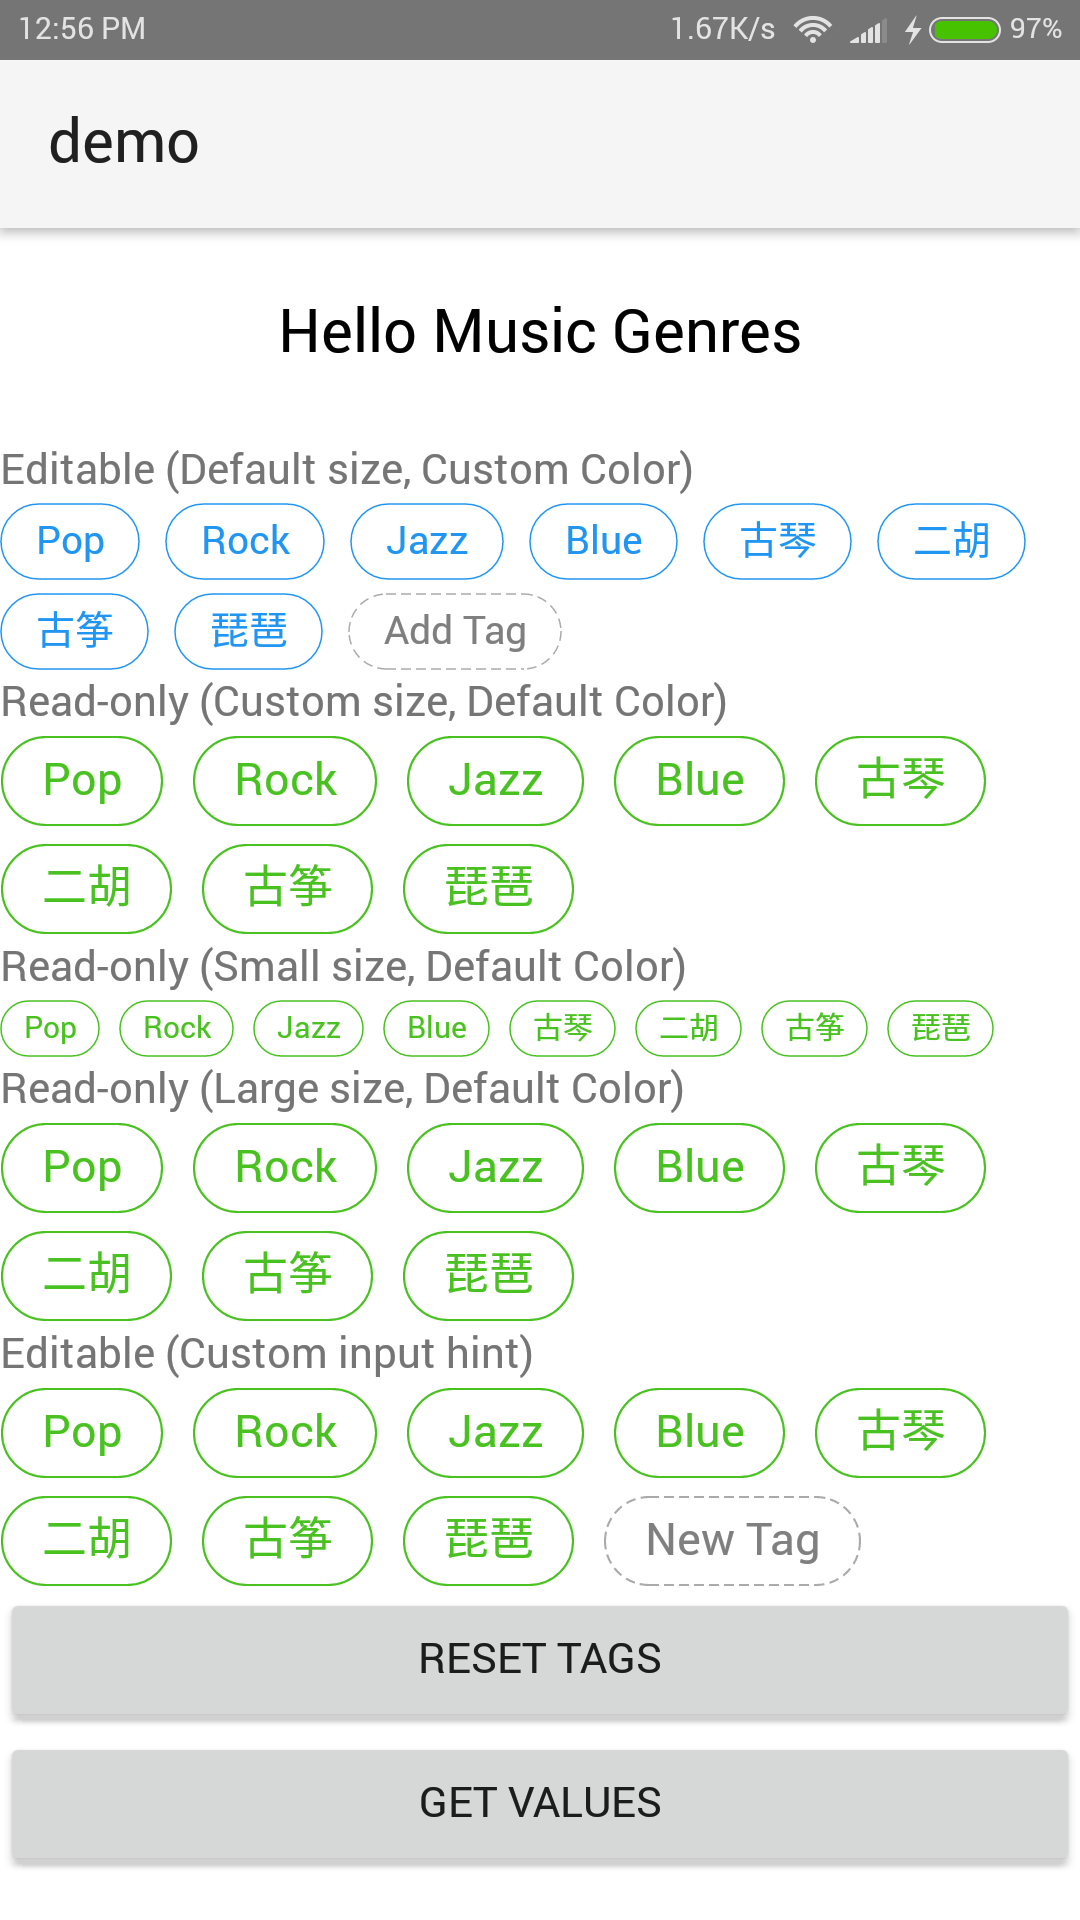
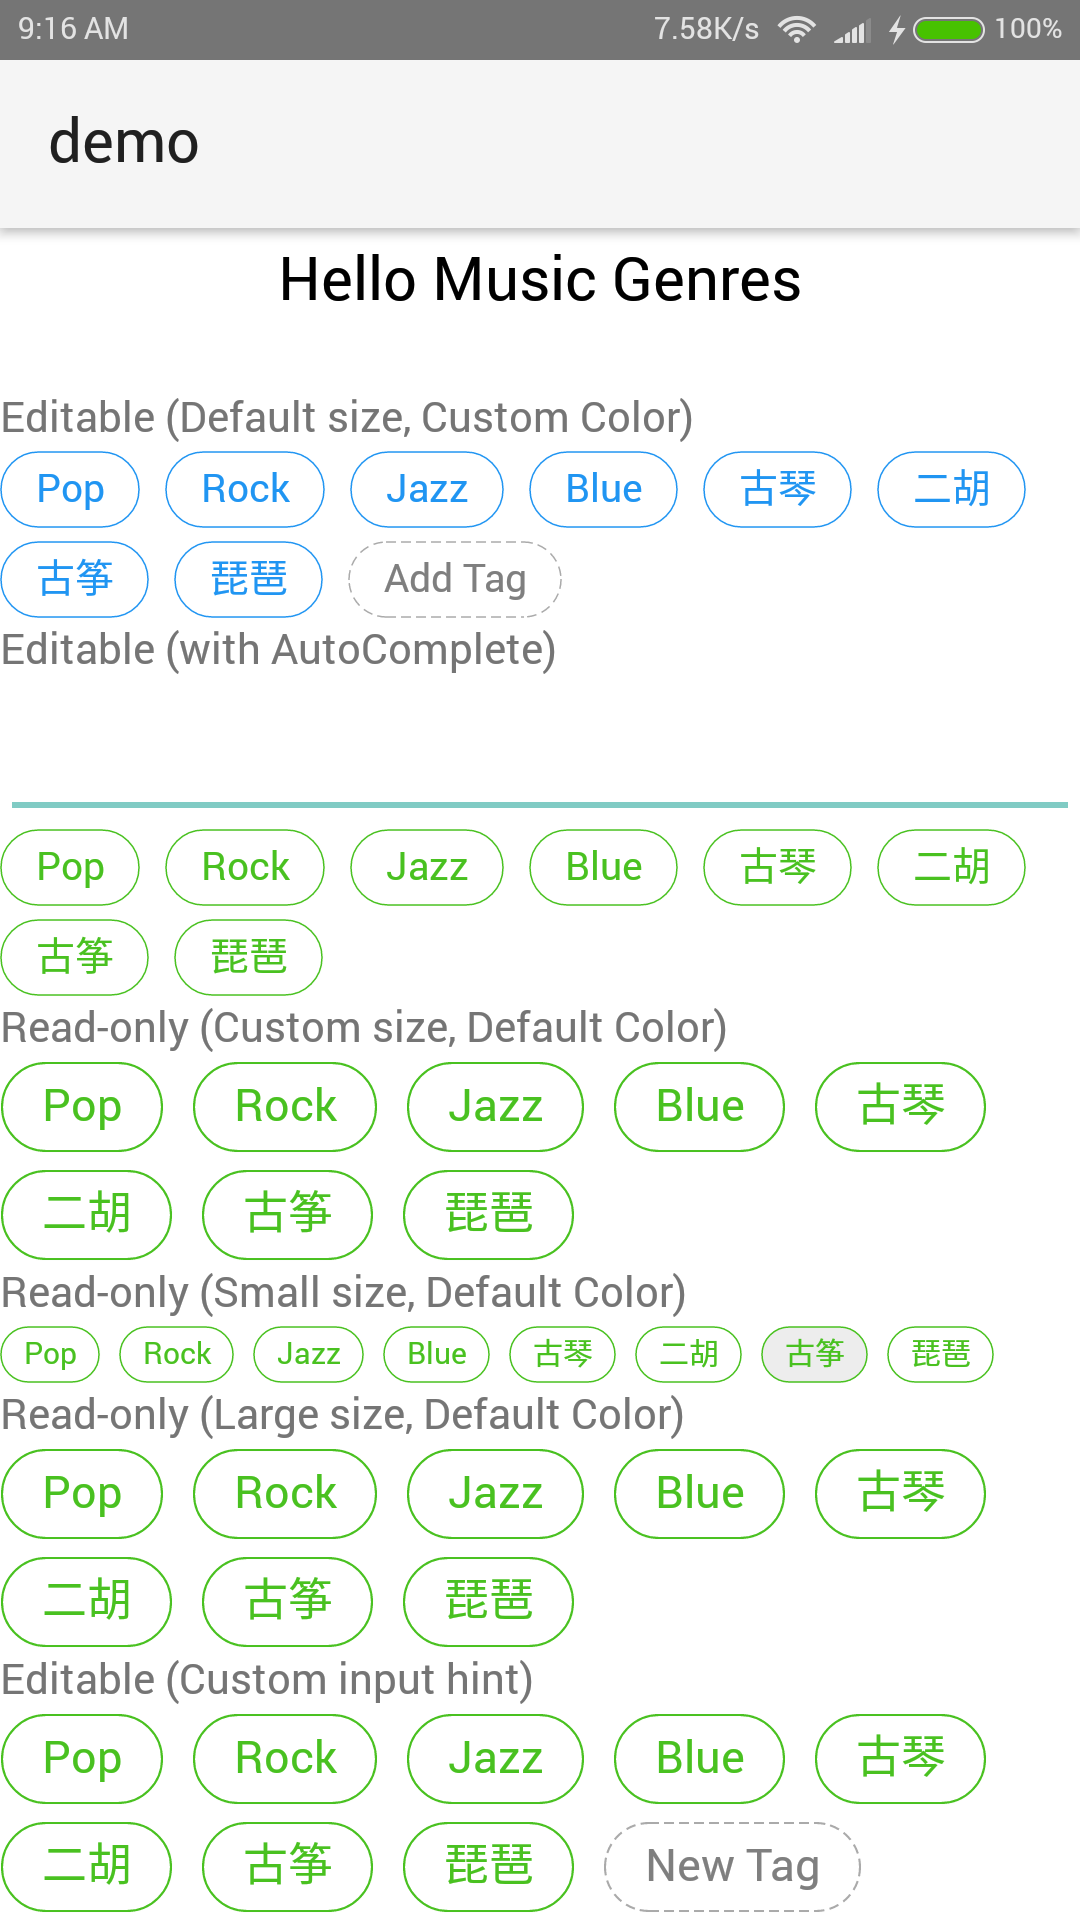
autocomplete added now

diff --git a/tag.android.ts b/tag.android.ts
@@ -64,26 +64,26 @@ export class TagGroup extends common.TagGroup {
     // view properties (Colors)
     public ntag_borderColor: string; // default: #49C120
     public ntag_textColor: string; // default: #49C120
-    public ntag_backgroundColor: string; // default: #FFFFFF
+    public ntag_bgColor: string; // default: #FFFFFF
     public ntag_dashBorderColor: string; // default: #AAAAAA
     public ntag_inputHintColor: string; // default: #80000000
     public ntag_inputTextColor: string; // default: #DE000000
     public ntag_checkedBorderColor: string; // default: #49C120
     public ntag_checkedTextColor: string; // default: #FFFFFF
     public ntag_checkedMarkerColor: string; // default: #FFFFFF
-    public ntag_checkedBackgroundColor: string; // default: #49C120
-    public ntag_pressedBackgroundColor: string; // default: #EDEDED
+    public ntag_checkedBgColor: string; // default: #49C120
+    public ntag_pressedBgColor: string; // default: #EDEDED
     public ntag_acTextColor: string; // default: #000000;
-    public ntga_acPopupBg: string;
+    public ntga_acPopupBg: string; // default: #F5F8FA;
 
     // view properties (Input hint, Text Size and spacings)
     public ntag_inputHint: string; // default: Add Tag
     public ntag_textSize: number; // default: 13sp
     public ntag_borderStrokeWidth: number; // default: 0.5dp
-    public ntag_horizontalSpacing: number; // default: 8dp
-    public ntag_verticalSpacing: number; // default: 4dp
-    public ntag_horizontalPadding: number; // default: 12dp
-    public ntag_verticalPadding: number; // default: 3dp
+    public ntag_hSpacing: number; // default: 8dp
+    public ntag_vSpacing: number; // default: 4dp
+    public ntag_hPadding: number; // default: 12dp
+    public ntag_vPadding: number; // default: 3dp
 
     // preset tag sizes (mutually execulsive)
     public ntag_small: boolean;
@@ -317,10 +317,10 @@ export class TagGroup extends common.TagGroup {
             f.setInt(this._tagGroup, AndroidColor.parseColor(this.ntag_textColor)); //IllegalAccessException
         }
 
-        if (this.ntag_backgroundColor) {
+        if (this.ntag_bgColor) {
             let f = this._tagGroup.getClass().getDeclaredField("backgroundColor"); //NoSuchFieldException
             f.setAccessible(true);
-            f.setInt(this._tagGroup, AndroidColor.parseColor(this.ntag_backgroundColor)); //IllegalAccessException
+            f.setInt(this._tagGroup, AndroidColor.parseColor(this.ntag_bgColor)); //IllegalAccessException
         }
 
         if (this.ntag_dashBorderColor) {
@@ -359,16 +359,16 @@ export class TagGroup extends common.TagGroup {
             f.setInt(this._tagGroup, AndroidColor.parseColor(this.ntag_checkedMarkerColor)); //IllegalAccessException
         }
 
-        if (this.ntag_checkedBackgroundColor) {
+        if (this.ntag_checkedBgColor) {
             let f = this._tagGroup.getClass().getDeclaredField("checkedBackgroundColor"); //NoSuchFieldException
             f.setAccessible(true);
-            f.setInt(this._tagGroup, AndroidColor.parseColor(this.ntag_checkedBackgroundColor)); //IllegalAccessException
+            f.setInt(this._tagGroup, AndroidColor.parseColor(this.ntag_checkedBgColor)); //IllegalAccessException
         }
 
-        if (this.ntag_pressedBackgroundColor) {
+        if (this.ntag_pressedBgColor) {
             let f = this._tagGroup.getClass().getDeclaredField("pressedBackgroundColor"); //NoSuchFieldException
             f.setAccessible(true);
-            f.setInt(this._tagGroup, AndroidColor.parseColor(this.ntag_pressedBackgroundColor)); //IllegalAccessException
+            f.setInt(this._tagGroup, AndroidColor.parseColor(this.ntag_pressedBgColor)); //IllegalAccessException
         }
 
         // style preset sizes
@@ -426,28 +426,28 @@ export class TagGroup extends common.TagGroup {
             f.setFloat(this._tagGroup, this._tagGroup.dp2px(this.ntag_borderStrokeWidth)); //IllegalAccessException
         }
 
-        if (this.ntag_horizontalSpacing) {
+        if (this.ntag_hSpacing) {
             let f = this._tagGroup.getClass().getDeclaredField("horizontalSpacing"); //NoSuchFieldException
             f.setAccessible(true);
-            f.setInt(this._tagGroup, this._tagGroup.dp2px(this.ntag_horizontalSpacing)); //IllegalAccessException
+            f.setInt(this._tagGroup, this._tagGroup.dp2px(this.ntag_hSpacing)); //IllegalAccessException
         }
 
-        if (this.ntag_verticalSpacing) {
+        if (this.ntag_vSpacing) {
             let f = this._tagGroup.getClass().getDeclaredField("verticalSpacing"); //NoSuchFieldException
             f.setAccessible(true);
-            f.setInt(this._tagGroup, this._tagGroup.dp2px(this.ntag_verticalSpacing)); //IllegalAccessException
+            f.setInt(this._tagGroup, this._tagGroup.dp2px(this.ntag_vSpacing)); //IllegalAccessException
         }
 
-        if (this.ntag_horizontalPadding) {
+        if (this.ntag_hPadding) {
             let f = this._tagGroup.getClass().getDeclaredField("horizontalPadding"); //NoSuchFieldException
             f.setAccessible(true);
-            f.setInt(this._tagGroup, this._tagGroup.dp2px(this.ntag_horizontalPadding)); //IllegalAccessException
+            f.setInt(this._tagGroup, this._tagGroup.dp2px(this.ntag_hPadding)); //IllegalAccessException
         }
 
-        if (this.ntag_verticalPadding) {
+        if (this.ntag_vPadding) {
             let f = this._tagGroup.getClass().getDeclaredField("verticalPadding"); //NoSuchFieldException
             f.setAccessible(true);
-            f.setInt(this._tagGroup, this._tagGroup.dp2px(this.ntag_verticalPadding)); //IllegalAccessException
+            f.setInt(this._tagGroup, this._tagGroup.dp2px(this.ntag_vPadding)); //IllegalAccessException
         }
 
         // set input hint text

diff --git a/tag.android.d.ts b/tag.android.d.ts
@@ -12,24 +12,24 @@ export declare class TagGroup extends common.TagGroup {
     ntag_tagClick: any;
     ntag_borderColor: string;
     ntag_textColor: string;
-    ntag_backgroundColor: string;
+    ntag_bgColor: string;
     ntag_dashBorderColor: string;
     ntag_inputHintColor: string;
     ntag_inputTextColor: string;
     ntag_checkedBorderColor: string;
     ntag_checkedTextColor: string;
     ntag_checkedMarkerColor: string;
-    ntag_checkedBackgroundColor: string;
-    ntag_pressedBackgroundColor: string;
+    ntag_checkedBgColor: string;
+    ntag_pressedBgColor: string;
     ntag_acTextColor: string;
     ntga_acPopupBg: string;
     ntag_inputHint: string;
     ntag_textSize: number;
     ntag_borderStrokeWidth: number;
-    ntag_horizontalSpacing: number;
-    ntag_verticalSpacing: number;
-    ntag_horizontalPadding: number;
-    ntag_verticalPadding: number;
+    ntag_hSpacing: number;
+    ntag_vSpacing: number;
+    ntag_hPadding: number;
+    ntag_vPadding: number;
     ntag_small: boolean;
     ntag_large: boolean;
     constructor();

diff --git a/README.md b/README.md
@@ -1,4 +1,5 @@
-# Nativescrpt UI plugin for Tagging
+# NativeScript UI plugin for Tagging
+NativeScript UI plugin for tagging with rich features including autocomplete
 
 ## Platform Support
 
@@ -12,28 +13,39 @@ Currently only support Android. Any collaborator for iOS support is welcomed!
 The plugin is developed using nativescript plugin seed (https://github.com/NathanWalker/nativescript-plugin-seed). Pls see `demo` for full example. 
 ###
 ```XML
+    <Label text="{{ message }}" class="message" textWrap="true"/>
+
     <Label text="Editable (Default size, Custom Color)" textWrap="true" />    
-    <Tags:TagGroup id="tag1" ntag_editMode="true" value="{{ tags }}" ntag_borderColor="#2095F2" ntag_textColor="#2095F2" ntag_backgroundColor="#ffffff" ntag_checkedBorderColor="#2095F2" ntag_checkedBackgroundColor="#2095F2" ntag_checkedTextColor="#ffffff" />
+    <Tags:TagGroup id="tag1" ntag_editMode="true" value="{{ tags }}" ntag_borderColor="#2095F2" ntag_textColor="#2095F2" ntag_bgColor="#ffffff" ntag_checkedBorderColor="#2095F2" ntag_checkedBgColor="#2095F2" ntag_checkedTextColor="#ffffff" />
+
+    <Label text="Editable (with AutoComplete)" textWrap="true" />
+    <Tags:TagGroup id="tag4" value="{{ tags }}" autoCompleteTags="{{ autoCompleteTags }}" ntag_autoComplete="true" />
 
     <Label text="Read-only (Custom size, Default Color)" textWrap="true" />    
-    <Tags:TagGroup id="tag2" ntag_tagClick="{{ onTagClick }}" value="{{ tags }}" ntag_borderStrokeWidth="0.7" ntag_textSize="15" ntag_horizontalSpacing="9" ntag_verticalSpacing="5" ntag_horizontalPadding="14" ntag_verticalPadding="4" />
+    <Tags:TagGroup id="tag2" ntag_tagClick="{{ onTagClick }}" value="{{ tags }}" ntag_borderStrokeWidth="0.7" ntag_textSize="15" ntag_hSpacing="9" ntag_vSpacing="5" ntag_hPadding="14" ntag_vPadding="4" />
 
     <Label text="Read-only (Small size, Default Color)" textWrap="true" />
-    <Tags:TagGroup id="tag3" value="{{ tags }}" ntag_small="true" />
+    <Tags:TagGroup id="tag3" value="{{ tags }}" ntag_tagClick="tag3Click" ntag_small="true" />
 
     <Label text="Read-only (Large size, Default Color)" textWrap="true" />
     <Tags:TagGroup id="tag3" ntag_tagClick="{{ onTagClick }}" value="{{ tags }}" ntag_large="true" />
 
     <Label text="Editable (Custom input hint)" textWrap="true" />
-    <Tags:TagGroup id="tag4" ntag_tagClick="{{ onTagClick }}" value="{{ tags }}" ntag_inputHint="New Tag" ntag_large="true" />
+    <Tags:TagGroup id="tag4" value="{{ tags }}" ntag_editMode="true" ntag_inputHint="New Tag" ntag_large="true" />
 
 ```
 
 ###
-- How to add tag?
+- How to add tag (with auto complete)?
+Set `ntag_autoComplete="true"` in xml and chose a suggestion or tap the autocomplete text view.
+
+- How to remove tag (with auto complete)?
+Set `ntag_autoComplete="true"` in xml and double-tap the tag to remove.
+
+- How to add tag (without auto complete)?
 Set `ntag_editMode="true"` in xml and press 'Enter' or tap the blank area of the tag group. (A few soft keyboard not honour the key event).
 
-- How to remove tag?
+- How to remove tag (without auto complete)?
 Set `ntag_editMode="true"` in xml and press 'Backspace' or double-tap the tag to remove.
 
 ## Attributes
@@ -43,6 +55,14 @@ Set `ntag_editMode="true"` in xml and press 'Backspace' or double-tap the tag to
 - **value** - *required*
 
 String array of tags for binding
+
+- **autoCompleteTags** - *optional*
+
+String array of auto complete suggestion
+
+- **ntag_autoComplete** - *optional*
+
+Set `true` when needs autcomplete. Default is `false`
 
 - **ntag_editMode - (boolean)** - *optional*
 
@@ -62,6 +82,14 @@ Default is 'Add Tag'
 
 ### Color attributes
 
+- **ntag_acTextColor - (string)** - *optional*
+
+Default is #000000
+
+- **ntga_acPopupBg - (string)** - *optional*
+
+Background color for autocomplete popup. Default is #F5F8FA
+
 - **ntag_borderColor - (string)** - *optional*
 
 Default is #49C120
@@ -70,7 +98,7 @@ Default is #49C120
 
 Default is #49C120
 
-- **ntag_backgroundColor - (string)** - *optional*
+- **ntag_bgColor - (string)** - *optional*
 
 Default is #FFFFFF
 
@@ -98,11 +126,11 @@ Default is #FFFFFF
 
 Default is #FFFFFF
 
-- **ntag_checkedBackgroundColor - (string)** - *optional*
+- **ntag_checkedBgColor - (string)** - *optional*
 
 Default is #49C120
 
-- **ntag_pressedBackgroundColor - (string)** - *optional*
+- **ntag_pressedBgColor - (string)** - *optional*
 
 Default is #EDEDED
 
@@ -116,19 +144,19 @@ Default is 13sp
 
 Default is 0.5dp
 
-- **ntag_horizontalSpacing - (number)** - *optional*
+- **ntag_hSpacing - (number)** - *optional*
 
 Default is 8dp
 
-- **ntag_verticalSpacing - (number)** - *optional*
+- **ntag_vSpacing - (number)** - *optional*
 
 Default is 4dp
 
-- **ntag_horizontalPadding - (number)** - *optional*
+- **ntag_hPadding - (number)** - *optional*
 
 Default is 12dp
 
-- **ntag_verticalPadding - (number)** - *optional*
+- **ntag_vPadding - (number)** - *optional*
 
 Default is 3dp
 
